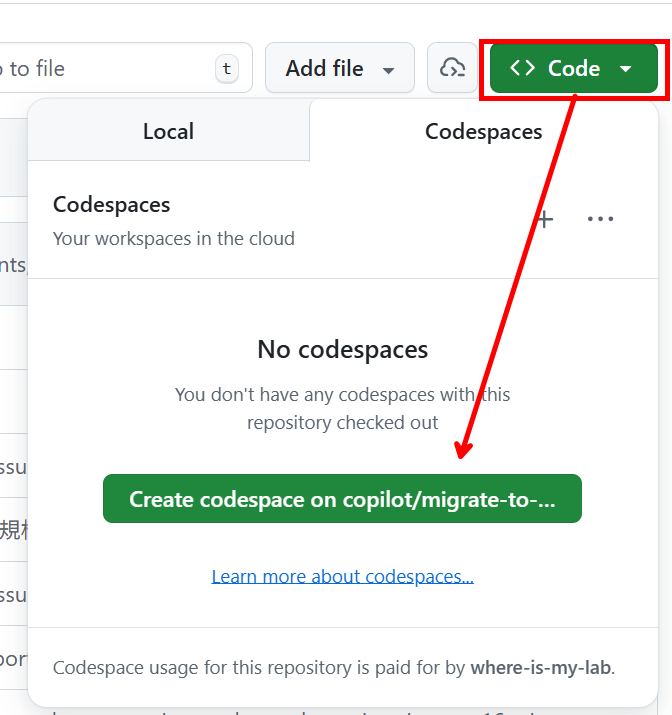
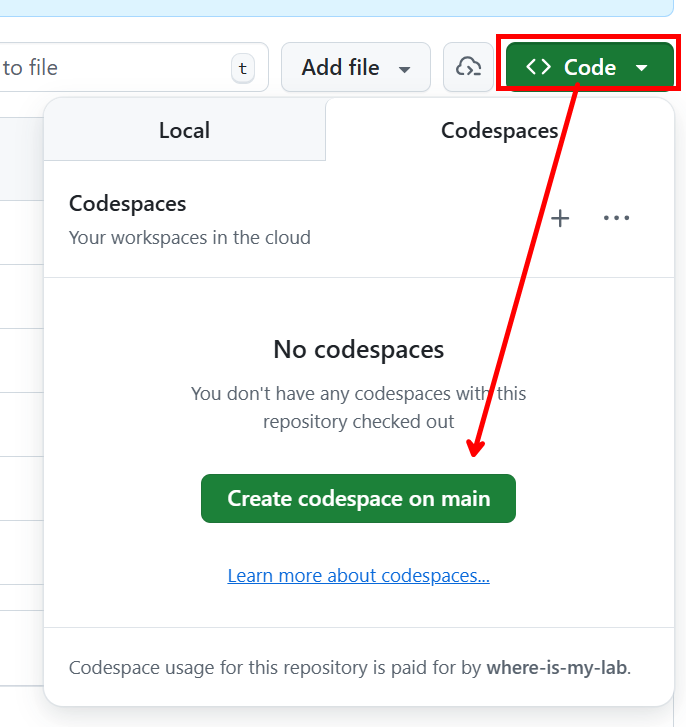
Enhance GitHub Copilot documentation with new images and updated instructions

diff --git a/Lab/README.md b/Lab/README.md
@@ -92,13 +92,21 @@
 #### 1.3 將既有規格文件轉換為新架構的移轉需求規格文件
 - **操作重點：** 示範如何將既有規格文件轉換為新架構的移轉需求規格文件，並指派給 GitHub Copilot Coding Agent 進行文件撰寫工作
 - **操作步驟**
+   - 於 repository 中建立一個新的分支 `docs`
+        ![alt text](images/new-branch.png)
+   - 修改場景一 PR 之 base branch 為 `docs` 分支
+        ![alt text](images/change-base-branch.png)
+   - 進行合併 PR，將場景一 文件內容合併至 `docs` 分支
+        ![alt text](images/merge-pr.png)
    - 開啟 [場景二：規格文件→新規格文件](./scenario-2-specification-to-new-architecture.md)，並將內容複製下來
    - 於 Repository 中建立一個新的 Issue，並將複製的內容貼上
-   - 在 Issue 頁面中的右側 Assignees 區域點選 **Assign to Copilot**，指派 GitHub Copilot Coding Agent 為該 Issue 進行文件撰寫工作
-
+   - 在 Issue 頁面中的右側 Assignees 區域點選 **Assign to Copilot**，點選分支 icon，選擇 `docs` 作為 base 分支，完成指派 GitHub Copilot Coding Agent 為該 Issue 進行文件撰寫工作
+        ![alt text](images/assign-coding-agent-with-branch.png)
 ---
 
 ### Lab 2 : Make GitHub Copilot Work for You
+- 於 Repository 中開啟 GitHub CCodespaces，點選 Code > Codespaces
+    ![alt text](images/create-codespaces.png)
 #### 2.1 調整 custom instructions
 - **操作重點：** 示範如何設定 GitHub Copilot 的客製化指示，透過新增通用與語言特定指示，確保 Copilot 依需求回應
 - **操作步驟：**
@@ -106,10 +114,13 @@
     2. 開啟 [copilot-instructions.md](../.github/copilot-instructions.md)，加入指定的回應語言區段
        ```
         ## GitHub Copilot Instructions
-        - 產生程式碼註解時，需加註 <generated by GitHub Copilot> 標籤
-        - 回應時請使用英文
+        - 一律使用英文回覆
+        - 產生範例程式碼時，變數及函示名稱必定包含前綴 sample-
        ```
     3. 再次進行詢問，確認回應語言是否依指示更新
+        ```
+        請給我一段 bubble sort 的範例程式碼
+        ```
 
 #### 2.2 利用 prompt file 進行 review
 - **操作重點：** 說明如何透過 Prompt 針對特定檔案生成教育性用途的註解
@@ -119,8 +130,8 @@
     3. 在現有對話中執行 **Run prompt in current chat**，依據提示內容進行回應需要針對的檔案進行註解
     4. 檢視回應內容，確認是否符合需求
 
-#### 2.3 利用 prompt engineer agent 進行提示詞優化
-- **操作重點：** 多數開發者不知道如何改善提示，使用專屬聊天模式來改進提示，幫助使用者釐清提示協助提升提示品質並取得更佳的回應
+#### 2.3 利用 custom agent 進行特定情境之任務
+- **操作重點：** 使用專屬聊天模式來進行提示詞優化，幫助使用者釐清提示協助提升提示品質並取得更佳的回應
 - **操作步驟：**
     1. 在 Chat 模式選擇 **prompt-engineer**，模型選擇 **Claude Sonnet 4.5**
     2. 輸入模糊的提示：`我需要進行升級` 輸出應包含分析後更加精確之提示詞
@@ -128,13 +139,16 @@
 ---
 
 ### Lab 3 : GitHub Copilot - your personal AI-assistant for development
+- 確認 情境三之程式碼更新移轉已完成後，於 Codespaces 中切換至該分支
+    ![alt text](images/switch-migration-branch.png)
 #### 3.1 使用 Agent 模式實作移轉後確認
 - **操作重點：** 利用 Agent Mode 進行移轉驗證並修復問題
 - **操作步驟：**
     1. 選擇 `Agent` chat mode，並選擇模型 `Claude Sonnet 4.5`
     2. 輸入提示詞 `安裝 .NET 8` 進行 .NET 8 安裝
     3. 安裝完成後可參考生成之指令進行專案建置與執行，須注意至少需確認以下有執行
-        - 啟動 sql server container
+        - 啟動 sql server container，並確認正常運行
+        - 確認 `appsettings.Development.json` 中之資料庫連線字串正確指向 sql server container 且密碼正確
         - 於移轉後的專案目錄執行 `dotnet restore` 及 `dotnet build` 成功
     4. 執行 `dotnet run` 後，開啟瀏覽器並連線至提供的 endpoint 進行功能測試
     5. (Option) 若出現 waring: Dereference of a possibly null reference 可藉由 Agent 協助修復

diff --git a/Lab/tutorial-for-setup.md b/Lab/tutorial-for-setup.md
@@ -4,12 +4,9 @@
 - **操作步驟**
    - 複製以下內容
         ```
-        整理該程式碼專案的技術文件，內容包括：
+       分析該專案程式碼並整理成技術文件，內容包括：
         1. 專案架構說明
         2. 主要功能模組介紹
-        3. 開發與部署流程
-        4. 使用的主要技術與工具
-        5. 常見問題與解決方案
         ```
    - **該步驟用於確認可正常建立 Issue**: 於 Repository 中建立一個新的 Issue，並將複製的內容貼上
 

diff --git a/.github/copilot-instructions.md b/.github/copilot-instructions.md
@@ -1,1 +1,2 @@
+ ## GitHub Copilot Instructions
 - 一律使用繁體中文回覆
